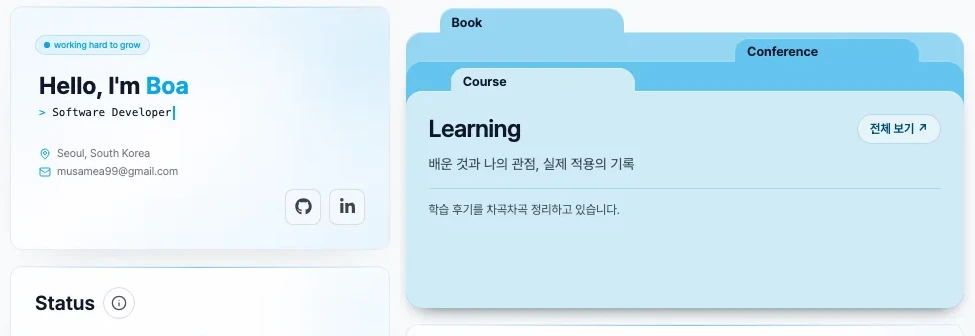
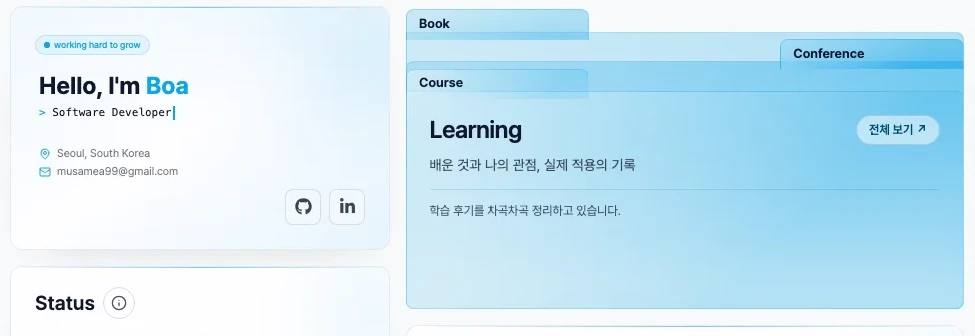
style: align learning folder indexes and soften glass layers

diff --git a/src/app/(layout)/(shell)/resume/_components/cards/ResumeCollections.module.css b/src/app/(layout)/(shell)/resume/_components/cards/ResumeCollections.module.css
@@ -14,24 +14,32 @@
   padding-top: 5.3rem;
 }
 
+.folderLayer,
+.folderIndex {
+  border: 1px solid color-mix(in srgb, var(--color-blue) 27%, transparent);
+  backdrop-filter: blur(12px);
+}
+
 .folderLayer {
-  border-radius: 1rem;
-  background: var(--folder-surface);
-  box-shadow: inset 0 1px 0 #ffffff65, 0 9px 19px -14px #08273972;
+  --folder-glint: color-mix(in srgb, var(--color-background) 40%, transparent);
+  border-radius: 0.5rem;
+  background:
+    linear-gradient(135deg, var(--folder-glint), transparent 68%),
+    linear-gradient(var(--folder-tint), color-mix(in srgb, var(--folder-tint) 30%, transparent));
 }
 
 .folderIndex {
   position: absolute;
   top: -1.45rem;
-  left: var(--folder-tab-left);
+  inset-inline-start: -1px;
   display: flex;
   width: max(33%, 6rem);
   min-height: 1.9rem;
   align-items: center;
-  border-radius: 0.85rem 1rem 0 0;
+  border-bottom: 0;
+  border-radius: 0.5rem 0.5rem 0 0;
   padding: 0 0.75rem 0.15rem;
-  background: var(--folder-surface);
-  box-shadow: inset 0 1px 0 #ffffff65;
+  background: linear-gradient(135deg, var(--folder-glint), transparent 76%), var(--folder-tint);
   color: var(--color-foreground);
   font-size: 0.8125rem;
   font-weight: 650;
@@ -56,22 +64,27 @@
 }
 
 .folderBack {
-  --folder-surface: color-mix(in srgb, var(--color-blue) 42%, var(--color-background));
-  --folder-tab-left: 6%;
+  --folder-tint: color-mix(in srgb, var(--color-blue) 30%, transparent);
   top: 1.6rem;
+  border-start-start-radius: 0;
 }
 
 .folderMiddle {
-  --folder-surface: color-mix(in srgb, var(--color-blue) 63%, var(--color-background));
-  --folder-tab-left: 59%;
+  --folder-tint: color-mix(in srgb, var(--color-blue) 43%, transparent);
   top: 3.45rem;
+  border-start-end-radius: 0;
+}
+
+.folderMiddle .folderIndex {
+  inset-inline: auto -1px;
 }
 
 .folderFront {
-  --folder-surface: color-mix(in srgb, var(--color-blue) 17%, var(--color-background));
-  --folder-tab-left: 8%;
+  --folder-glint: color-mix(in srgb, var(--color-background) 60%, transparent);
+  --folder-tint: color-mix(in srgb, var(--color-blue) 15%, transparent);
   position: relative;
   flex: 1;
+  border-start-start-radius: 0;
   padding: clamp(1rem, 2vw, 1.4rem);
 }
 

diff --git a/e2e/learning.spec.ts b/e2e/learning.spec.ts
@@ -37,14 +37,20 @@ test("Resume links to archive while unpublished Learning remains inaccessible", 
 test("the Resume folder indexes link to their Learning categories", async ({ page }) => {
   await page.goto("/resume");
   const folder = page.getByRole("region", { name: "최근 학습 후기" });
-  for (const [name, type] of [["Book", "book"], ["Conference", "conference"]]) {
+  for (const [name, type, edge] of [
+    ["Book", "book", "left"],
+    ["Conference", "conference", "right"],
+    ["Course", "course", "left"],
+  ] as const) {
     const index = folder.getByRole("link", { name, exact: true });
     await expect(index).toHaveAttribute("href", `/learning?type=${type}`);
+    const gap = await index.evaluate((tab, side) => Math.abs(
+      tab.getBoundingClientRect()[side] - tab.parentElement!.getBoundingClientRect()[side],
+    ), edge);
+    expect(gap).toBeLessThan(1);
     await index.click({ trial: true });
   }
-  const course = folder.getByRole("link", { name: "Course", exact: true });
-  await expect(course).toHaveAttribute("href", "/learning?type=course");
-  await course.click();
+  await folder.getByRole("link", { name: "Course", exact: true }).click();
   await expect(page).toHaveURL(/\/learning\?type=course$/);
   await expect(page.getByRole("link", { name: "Courses", exact: true })).toHaveAttribute("aria-current", "page");
 });
